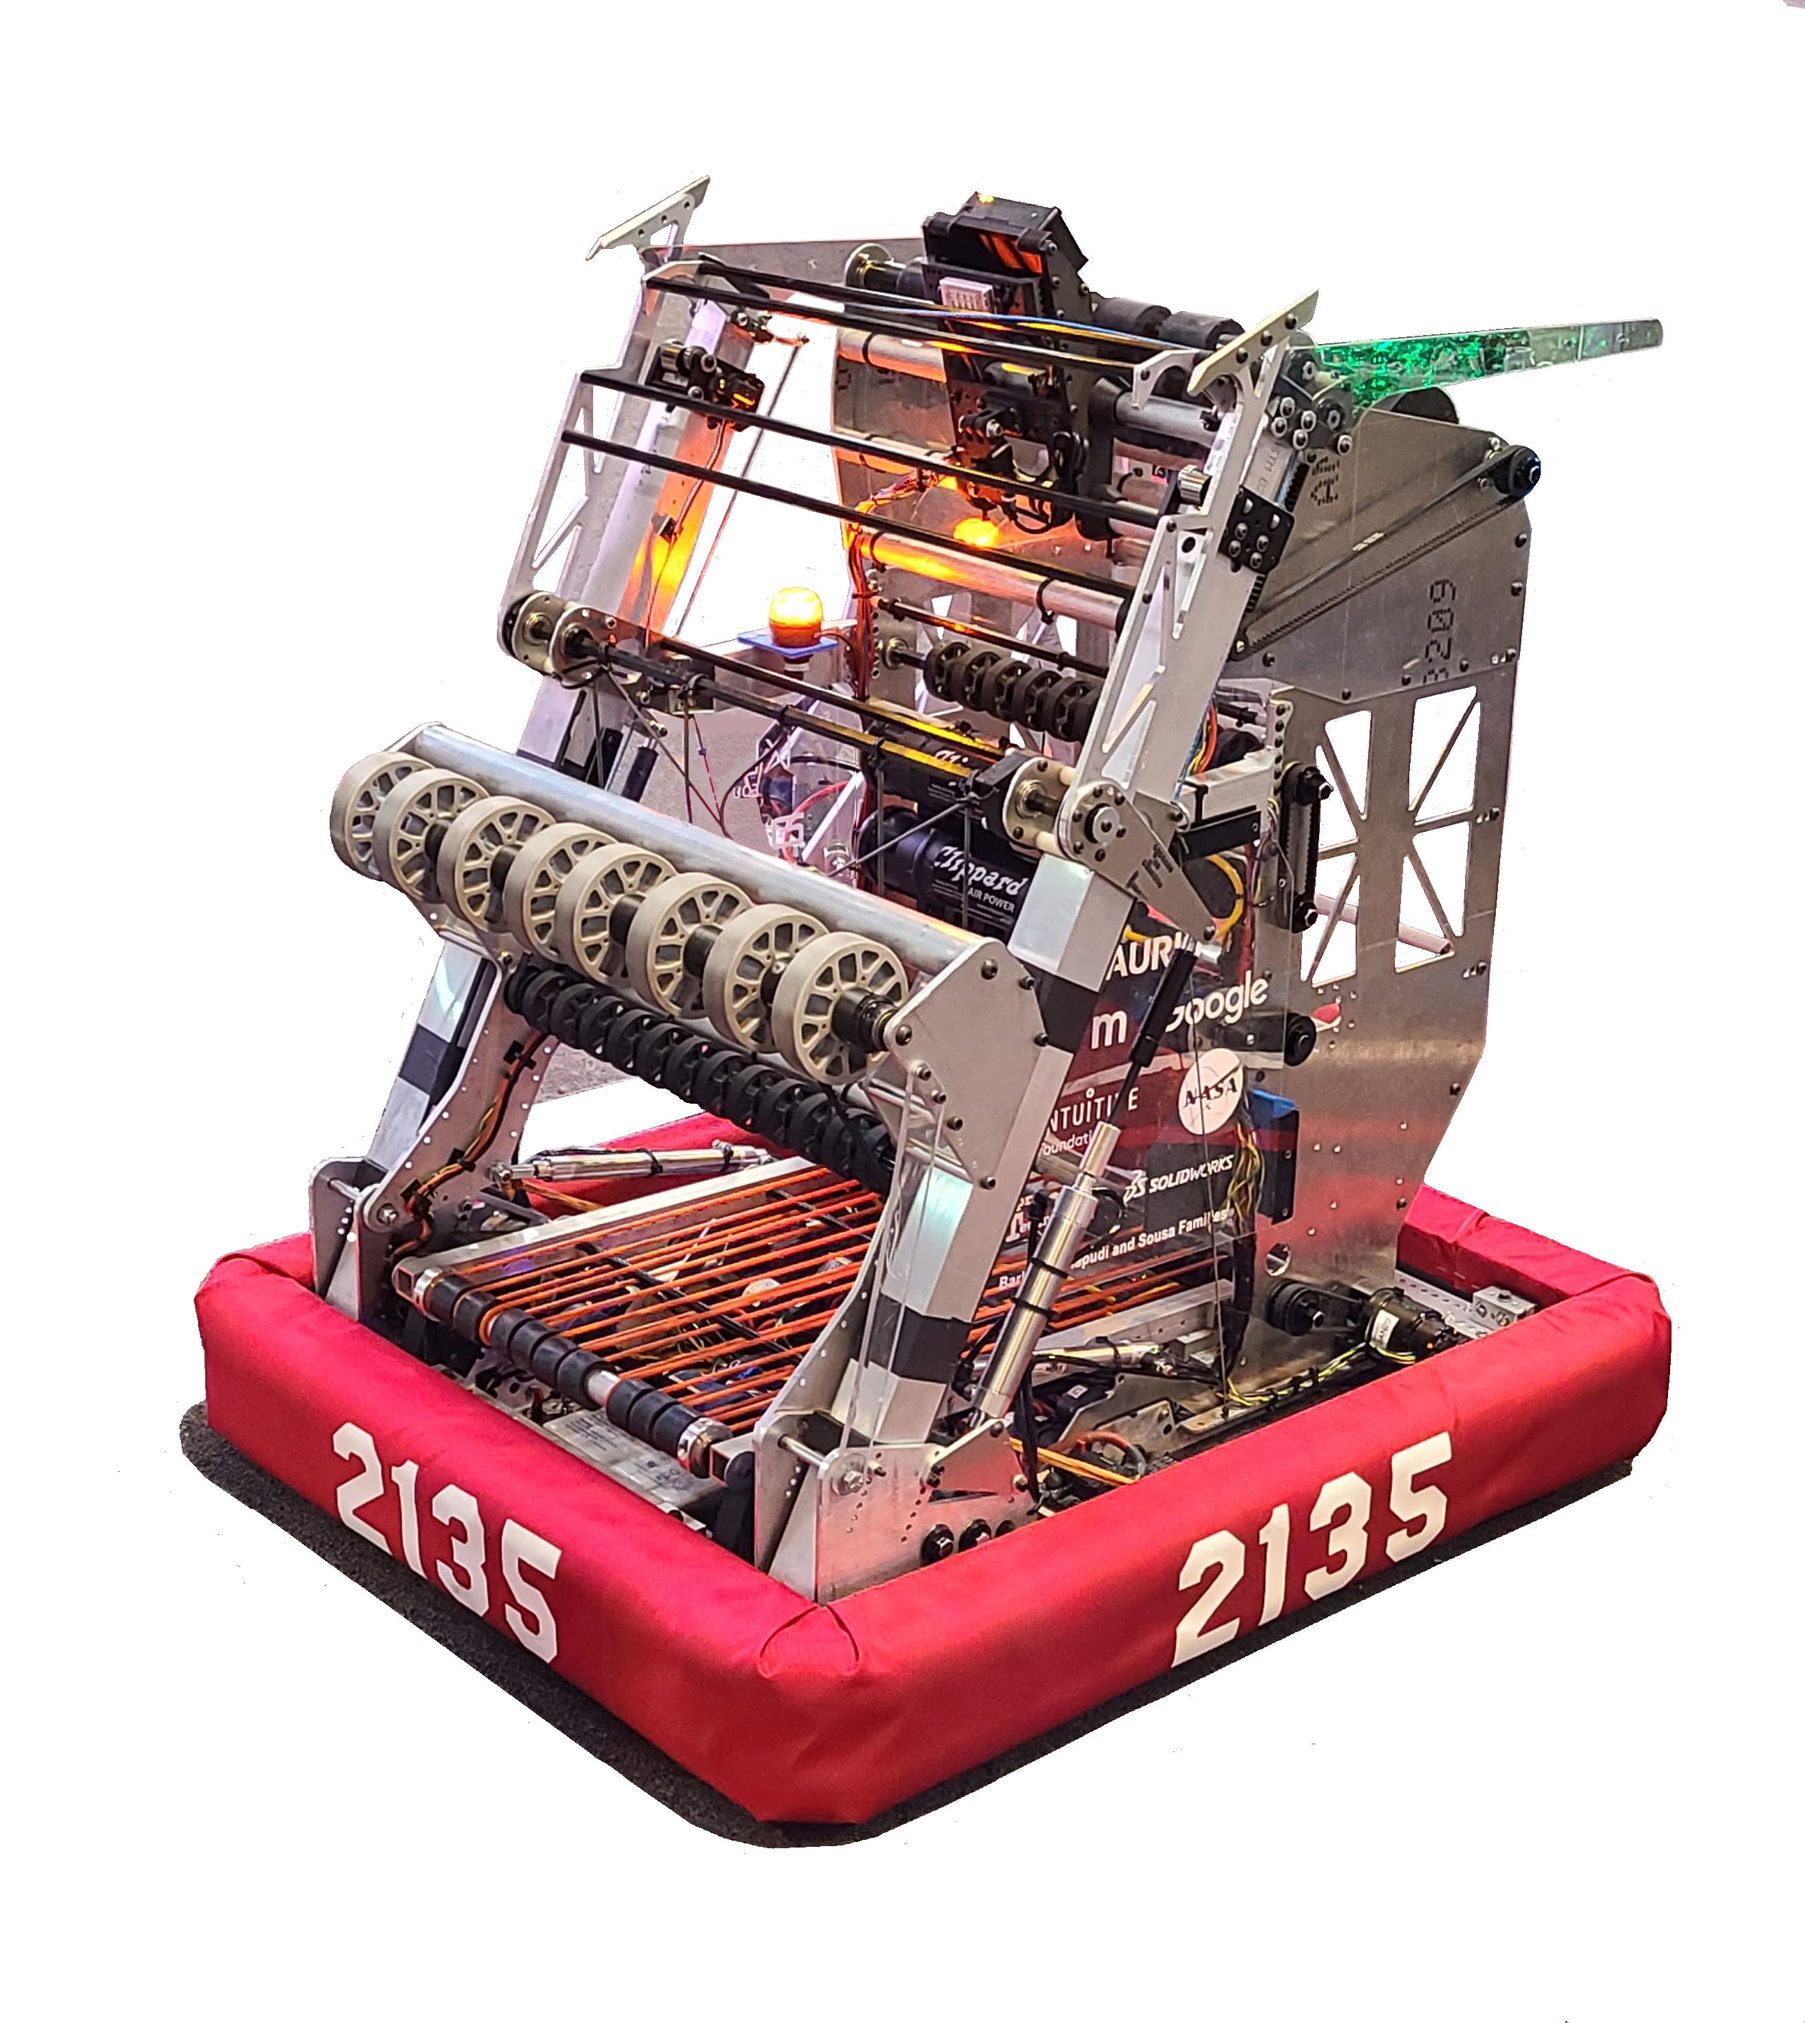
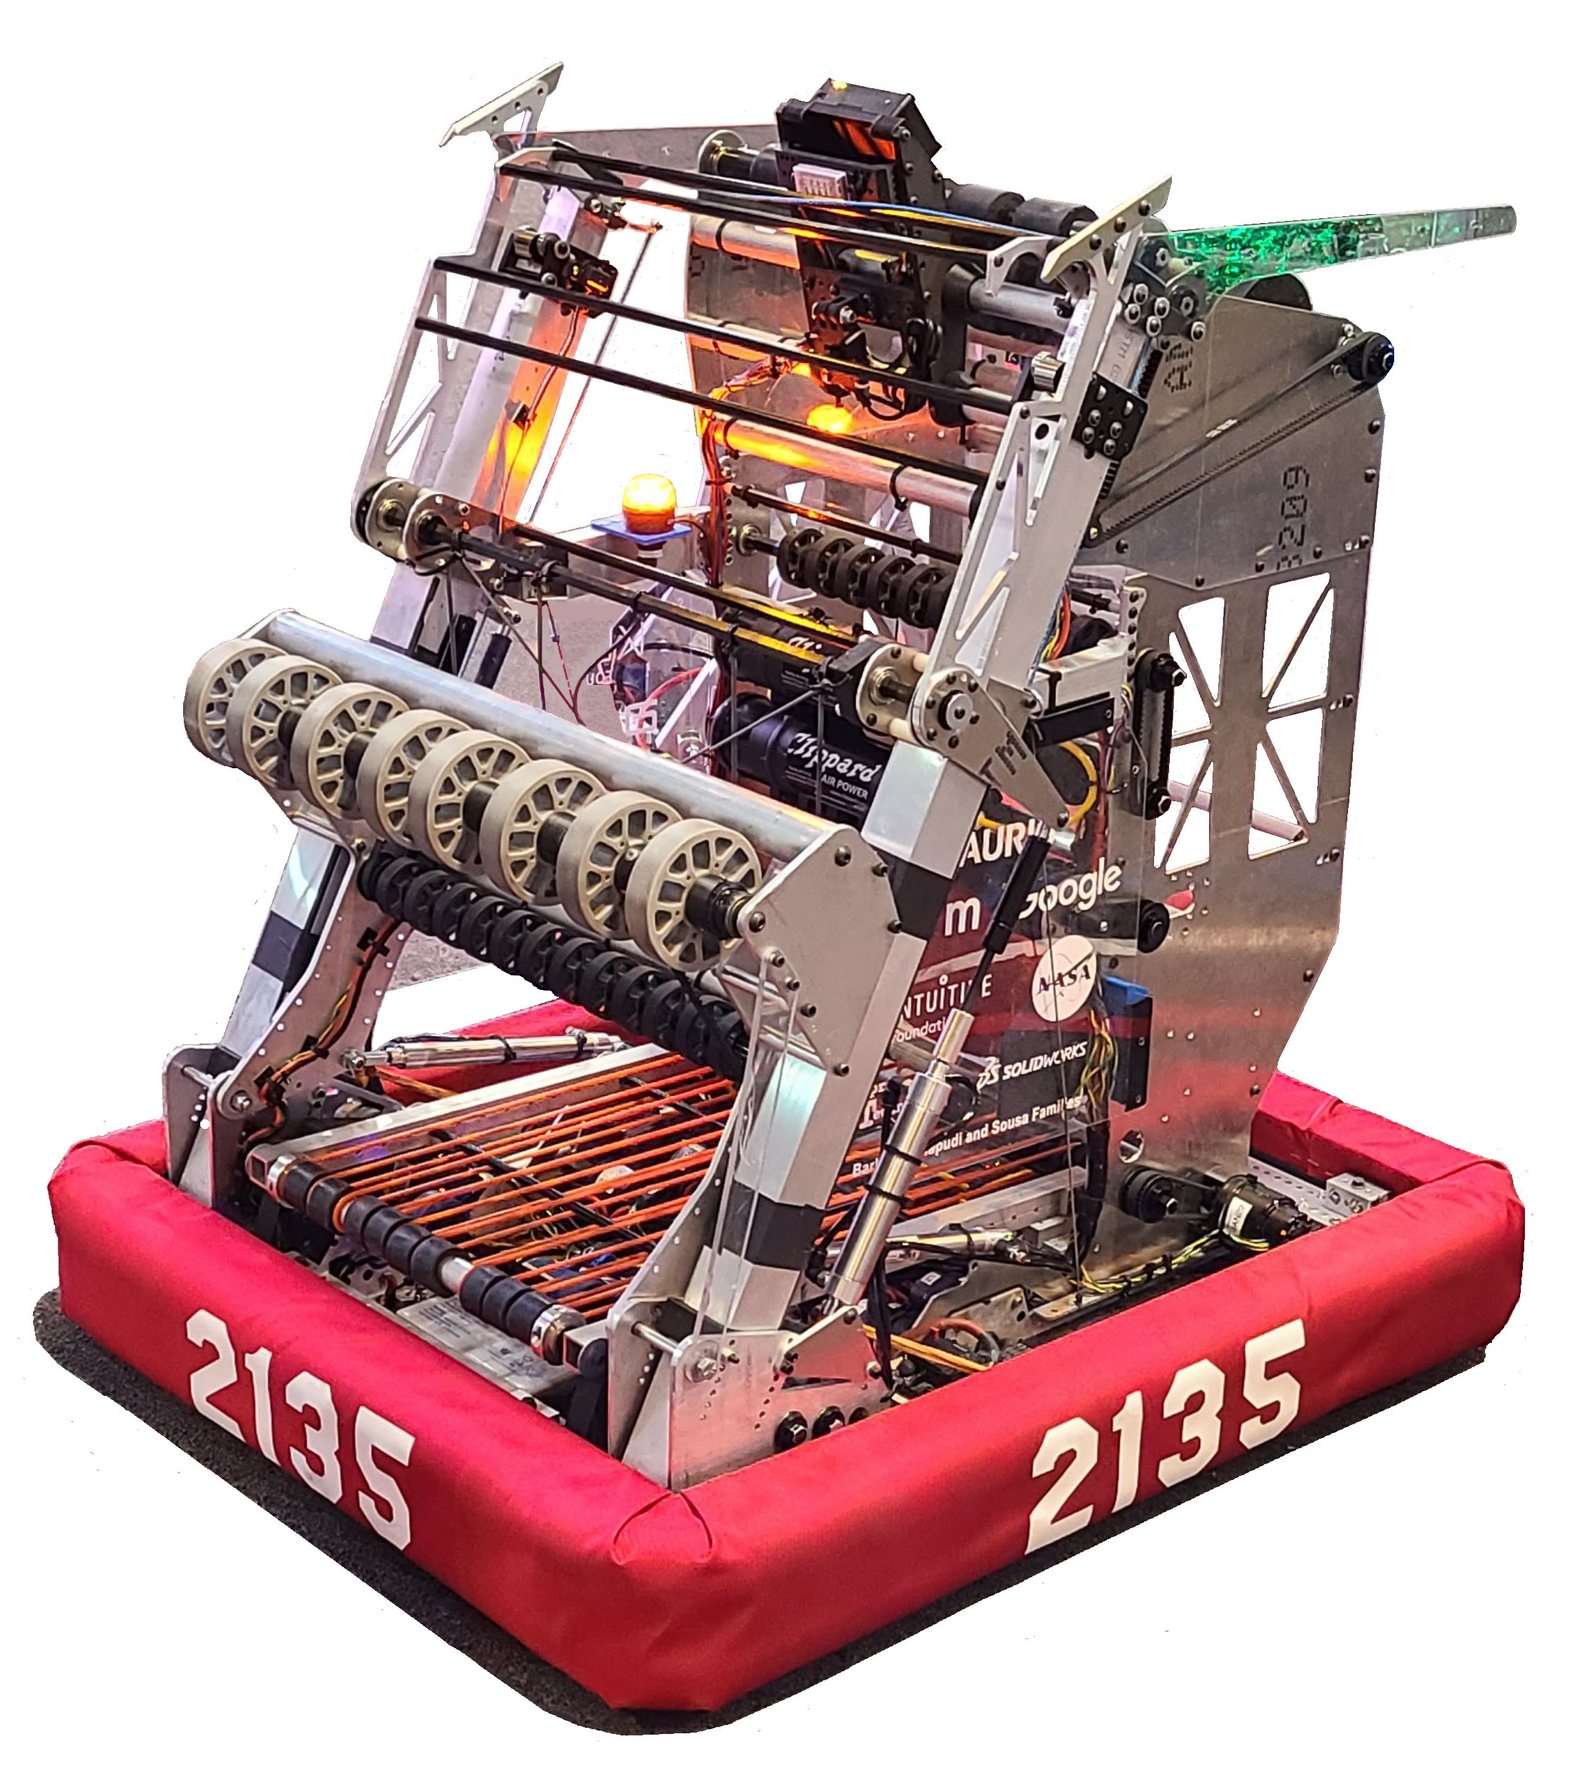
Updated Team History page for Rebuilt season

diff --git a/about_team.html b/about_team.html
@@ -138,7 +138,7 @@
             Through designing, manufacturing and programming robots, Team 2135 is actively involved in shaping the female engineers of 
             tomorrow through inspiration and innovation.  Our members are part of both a club and competitive team; each member has a different 
             level of experience and commitment.  We meet all year, though many come during the fall and winter.  Our team has dedicated working 
-            space in the Jenvey house garage across the street from our school.  Our machines and tools include a CNC Mill, CNC Table Router, 
+            space in the Robotics Center at the Plummer house next door to our school.  Our machines and tools include a CNC Mill, CNC Table Router, 
             Lathe, and sheet metal brake among many other shop features that students learn to operate and use.
           </p>
           <div class="row">
@@ -168,6 +168,17 @@
         <div>
           <h2>Team History</h2>
         </div>
+         <p> <strong>2026 - REBUILT</strong> 
+            <br><br>
+          Our 20th season! With co-captains Eleanor Carcione, Jeanelle Dao, and Priya Ramakrishnan leading our 7-member leadership group, the team dug into designing and building our new robot, Toph, which was ready in time to compete at a Week0 scrimmage in late Feb. This was a great testing-ground for working out the kinks and helped us prepare for our 2 district events. In mid-March at Sacramento District, we ranked 13th after Quals and were the 1st pick of the 5th-seeded alliance captained by Team 3598 - SEStematic Eliminators, with Team 5274 - Wolverine Robotics, playing to Round 2. We also won the <strong>Creativity Award</strong>! </p>
+          <p>At our 2nd event, Contra Costa District in Pittsburg, CA, we ranked 4th after Quals and were captain of the 3rd-seeded alliance, choosing Team 6619 and Team 2141. We played well together and reached Round 5 before being eliminated right before the Finals! We also won the <strong>Autonomous Award</strong>! The team nominated Eleanor and Jeanelle for the <strong>FIRST Leadership Award</strong>, and Jeanelle was selected as a <strong>FIRST Leadership District Semi-Finalist</strong>! These 2 events earned enough district points to qualify for the district championship event!</p> 
+          <p>Less than a week later we competed at the FIRST Northern CA District Championship at the Cow Palace in Daly City, CA, with the top 60 teams in northern CA! We played well, battling through a tough match schedule to rank 36th after Quals. Some stats for this season: Ranked 402nd out of total 3725 teams worldwide (11th percentile). Ranked 56th out of 291 California teams (19th percentile--competition is tough in CA). Overall record 22-19-1 (includes playoffs).</p>
+      
+           <em><strong>Robot Name: Toph</strong></em>
+          <div class="row content-block">
+            <div class="col-sm-5 media media-middle"> <img class="img-responsive" src="img/about_team/robots/robots_2026_Toph.jpg" alt="2026 Toph"> </div>
+            <div class="col-sm-7 pull-right media media-middle"> <img class="img-responsive" src="img/about_team/team/history_team_2026.jpg" alt="2026 Team"> </div></div>
+		  <div><hr></div>
         
         <p> <strong>2025 - REEFSCAPE</strong> 
             <br><br>
